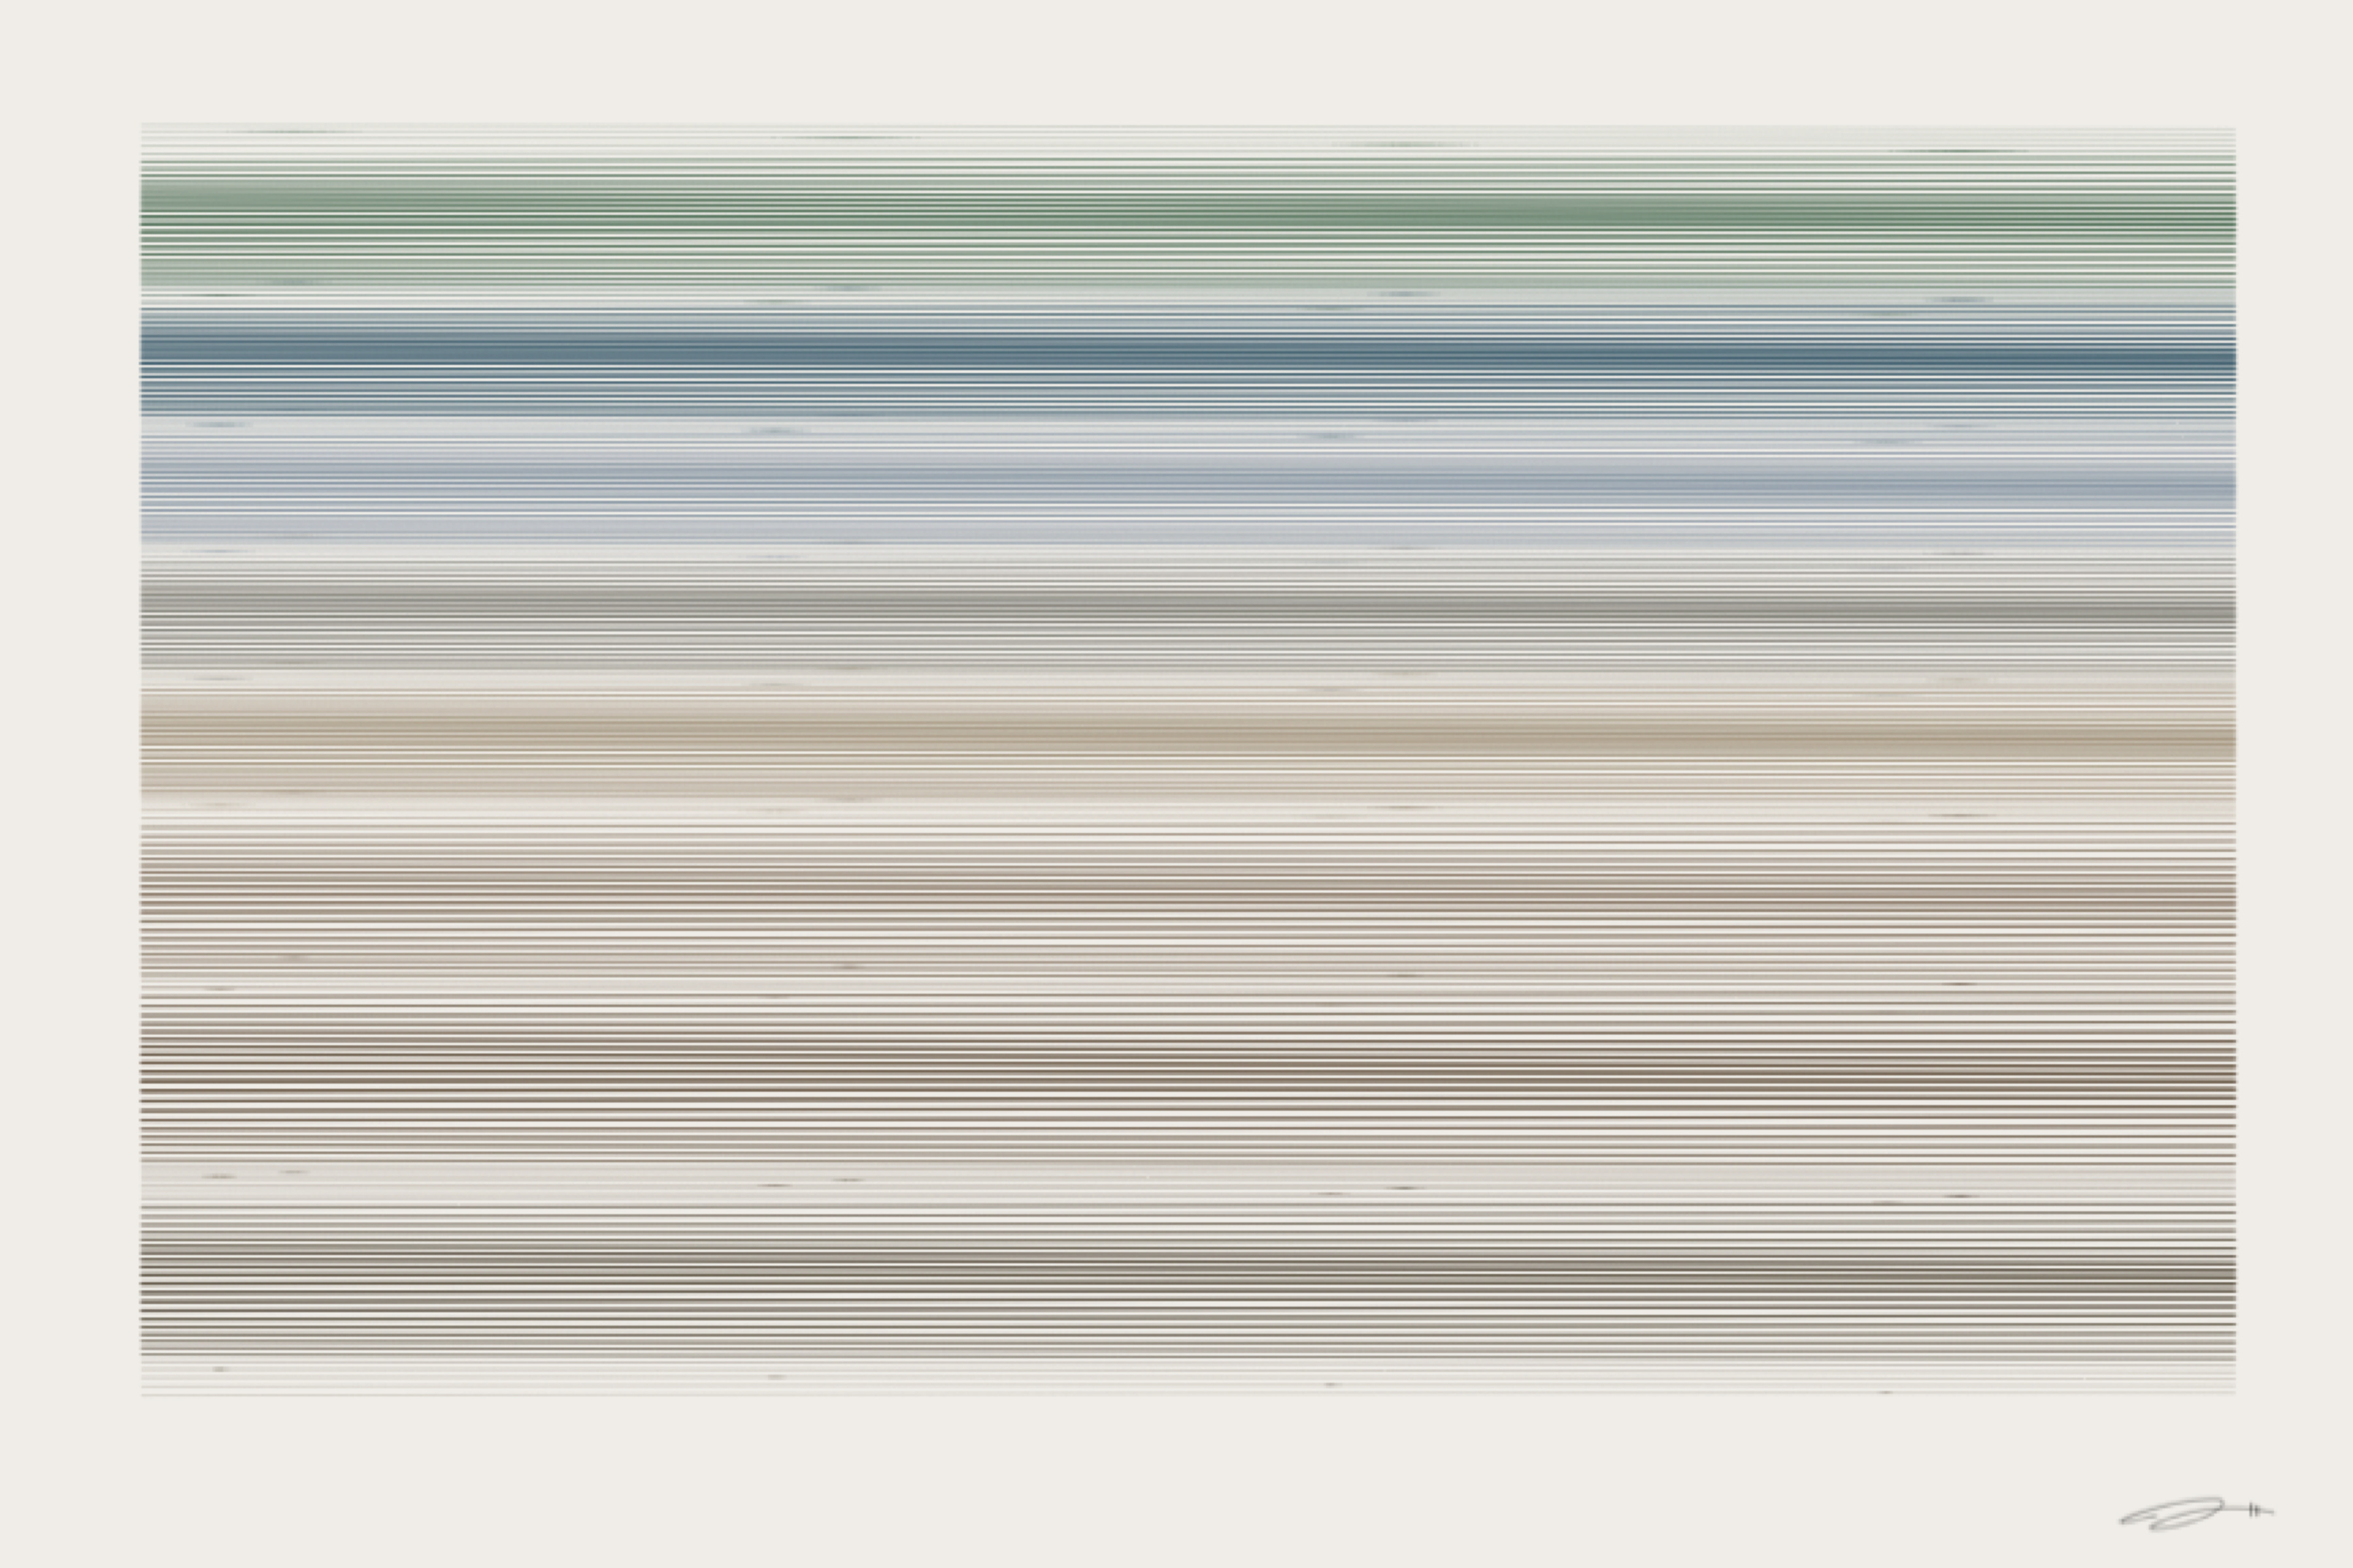
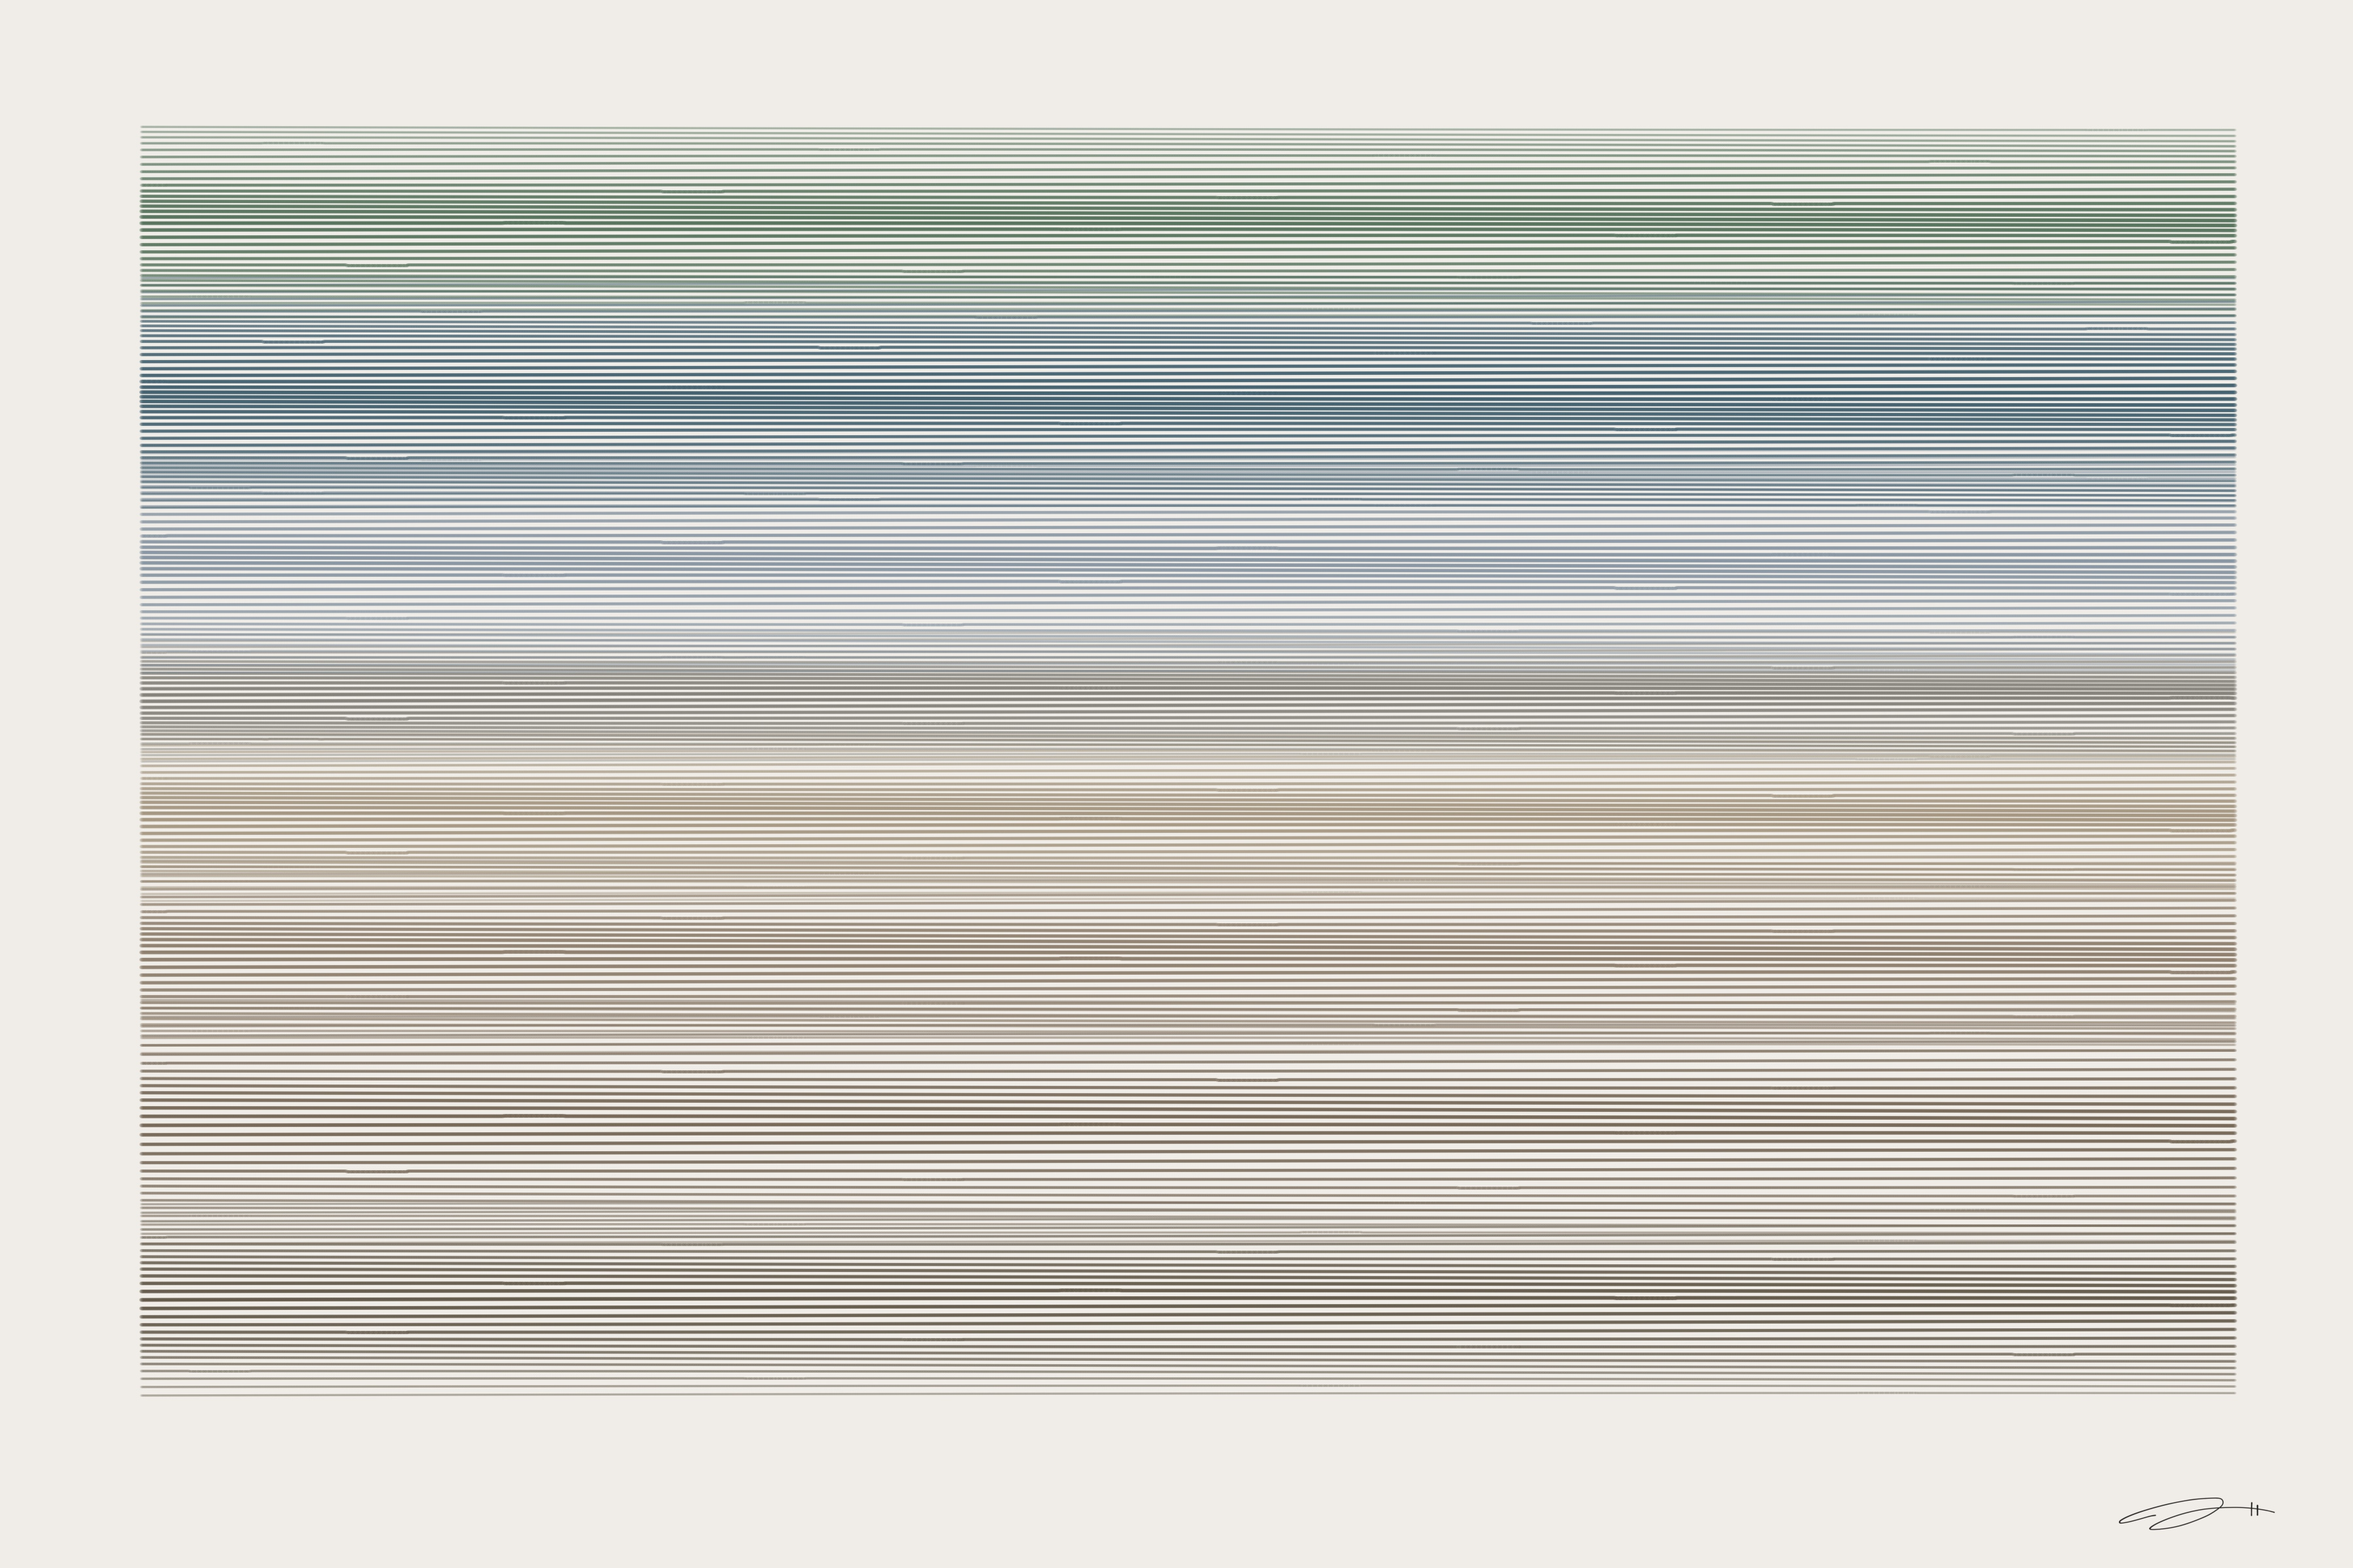
Update Peace Horizon: rebalance bands, reduce brown, boost blue/green

diff --git a/mathematical_affect/pieces/peace/peace_horizon.py b/mathematical_affect/pieces/peace/peace_horizon.py
@@ -104,16 +104,23 @@ def draw_lc(ax, xs, ys, col, lw, alpha, zo=4, smooth=0):
 def save(fig, name):
     fig.subplots_adjust(left=0, right=1, top=1, bottom=0)
     os.makedirs(OUTPUT_DIR, exist_ok=True)
-    # Ensure name ends with .pdf
     if not name.endswith(".pdf"):
         name = name + ".pdf"
-    fig.savefig(os.path.join(OUTPUT_DIR, name),
-                format='pdf', facecolor=BG)
+    pdf_path = os.path.join(OUTPUT_DIR, name)
+    fig.savefig(pdf_path, format='pdf', facecolor=BG)
+    print(f"saved {pdf_path}")
+    os.makedirs(PRINT_DIR, exist_ok=True)
+    jpg_name = name.replace('.pdf', '.jpg')
+    jpg_path = os.path.join(PRINT_DIR, jpg_name)
+    fig.savefig(jpg_path, facecolor=BG, dpi=DPI, format='jpg',
+                pil_kwargs={"quality": 96})
+    print(f"saved {jpg_path}")
     plt.close(fig)
-    print(f"saved {name}")
 
 SCRIPT_DIR = os.path.dirname(os.path.abspath(__file__))
-OUTPUT_DIR = os.path.join(SCRIPT_DIR, '..', '..', 'output')
+ROOT_DIR = os.path.join(SCRIPT_DIR, '..', '..', '..')
+OUTPUT_DIR = os.path.join(ROOT_DIR, 'output')
+PRINT_DIR = os.path.join(ROOT_DIR, 'public', 'prints', 'peace')
 
 # ============================================================================
 # 9. HORIZON — Rothko-style color field bands
@@ -122,19 +129,30 @@ def render():
     fig, ax = make_fig()
     # Horizontal bands of color, soft-edged
     bands = [
-        (0.00, 0.18, CEDAR, 0.43),
-        (0.15, 0.35, EARTH, 0.51),
-        (0.30, 0.48, CLAY, 0.48),
-        (0.45, 0.58, SAND_COL, 0.37),
-        (0.55, 0.68, WARM_GREY, 0.31),
-        (0.65, 0.78, SKY, 0.37),
-        (0.75, 0.88, OCEAN, 0.48),
+        (0.00, 0.15, CEDAR, 0.44),
+        (0.12, 0.31, EARTH, 0.41),
+        (0.27, 0.42, CLAY, 0.48),
+        (0.39, 0.52, SAND_COL, 0.37),
+        (0.50, 0.60, WARM_GREY, 0.31),
+        (0.57, 0.75, SKY, 0.37),
+        (0.70, 0.88, OCEAN, 0.48),
         (0.85, 1.00, DEEP_SAGE, 0.43),
     ]
     t = np.linspace(0, 1, 2000)
     for y_start, y_end, col, alpha_max in bands:
         # Many horizontal lines in this band
-        n_lines = 30
+        if col in (OCEAN,): 
+            n_lines = 40
+        elif col in (SKY,):         
+            n_lines = 37
+        elif col in (WARM_GREY,):
+            n_lines = 26
+        elif col in (CEDAR): 
+            n_lines = 27
+        elif col in (DEEP_SAGE,):
+            n_lines = 32
+        else: 
+            n_lines = 30
         for li in range(n_lines):
             li_frac = li / (n_lines - 1)
             y_pos = PAD_B + PH * (y_start + (y_end - y_start) * li_frac)
